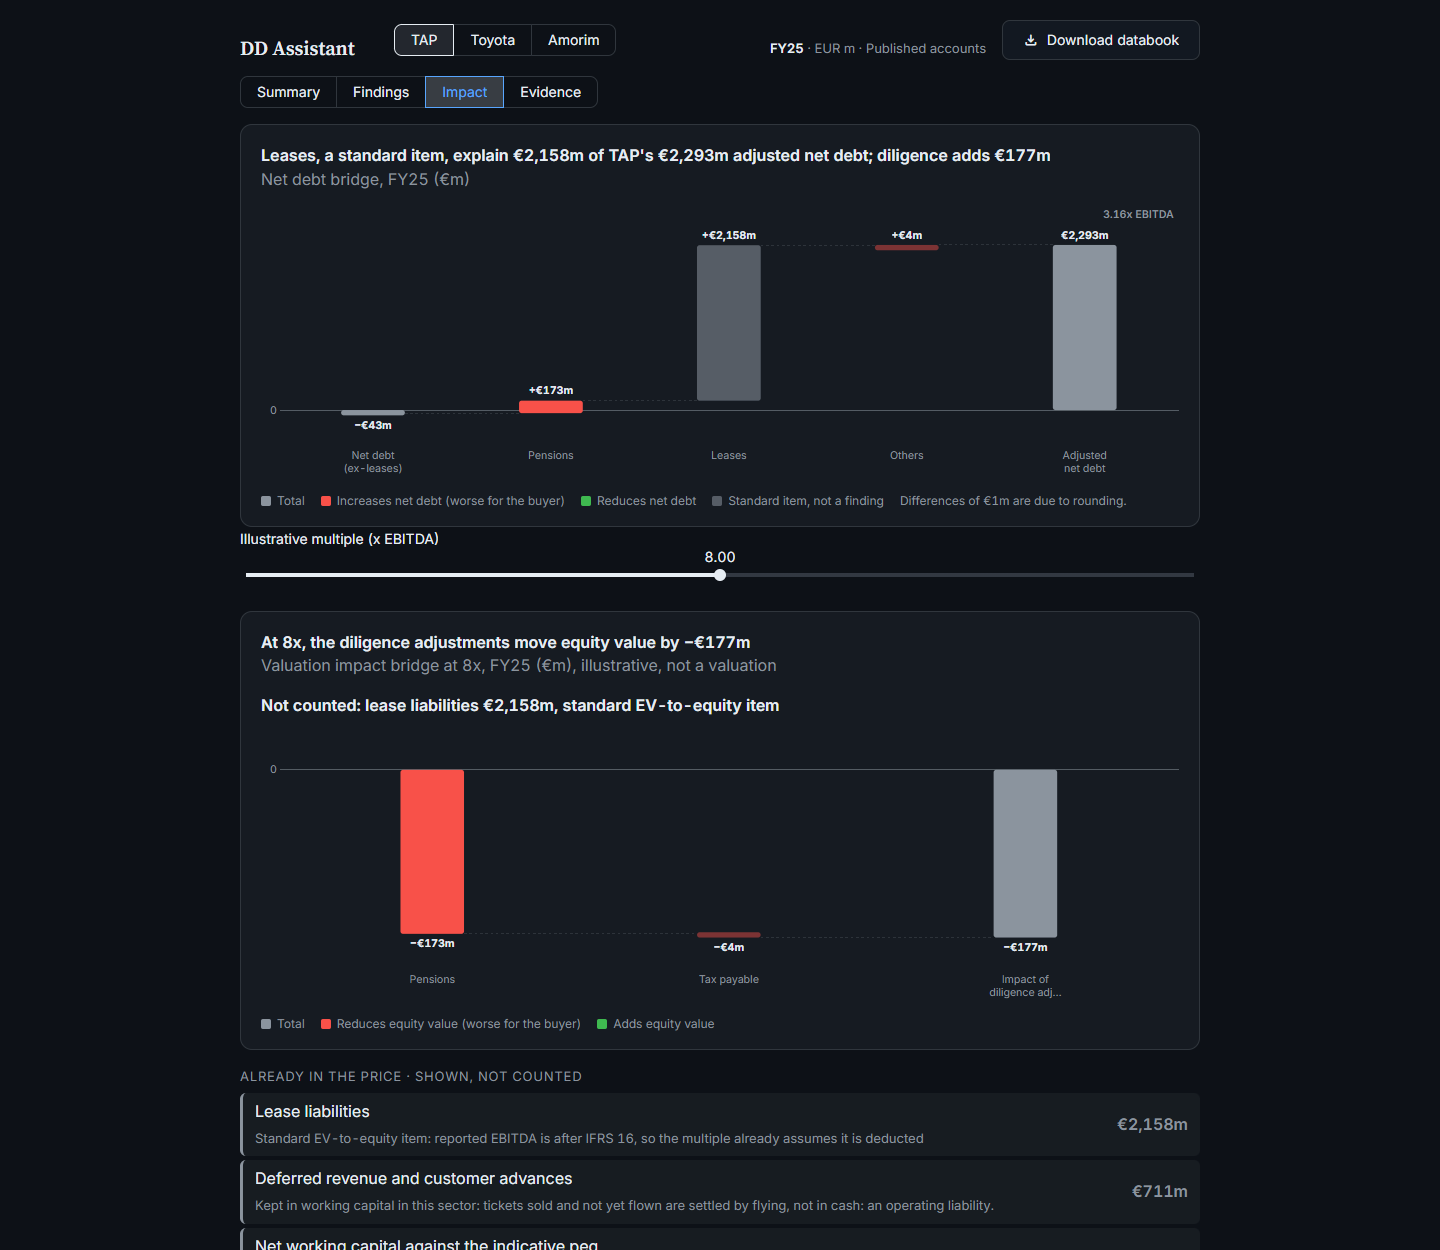
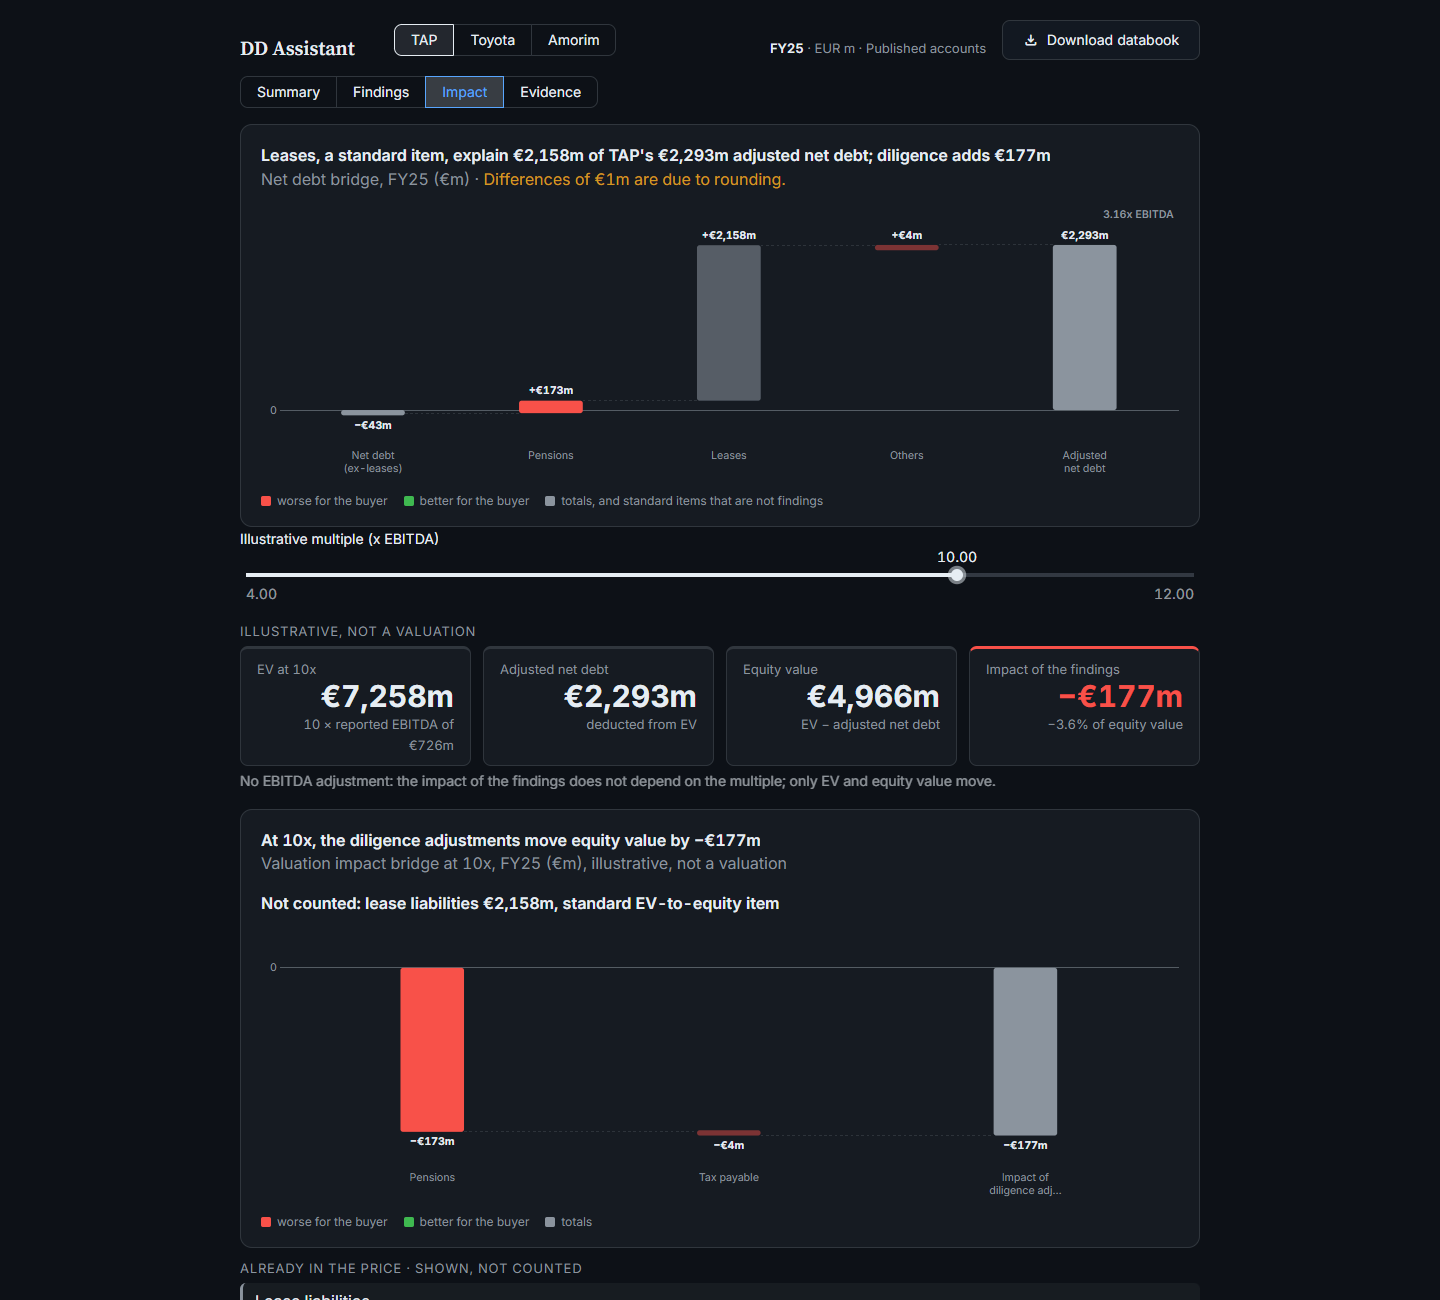
Phase 6b: captures against the criteria; README, PROGRESS and GAPS; new tool images

diff --git a/site/index.html b/site/index.html
@@ -266,7 +266,7 @@ font-family:Inter,system-ui,-apple-system,"Segoe UI",Roboto,sans-serif}
 <p class="small" style="color:#3fb950;margin:4px 0 0">Few open points</p><div class="sbar"><i style="width:9.2%;background:#3fb950ff" title="Net debt"></i><i style="width:6.7%;background:#3fb950cc" title="Cash flow"></i><i style="width:5.0%;background:#3fb95099" title="Quality of earnings"></i></div>
 <p class="kv"><span>Adjusted net debt, FY25</span><b>€83,638k</b></p>
 <p class="action">Answer these 3: 21 → 6</p>
-<p class="muted small">R24 · Capex below depreciation; R04 · Material other income within EBITDA; ND: Other financial liabilities · Other financial liabilities</p>
+<p class="muted small">R24 · Capex below depreciation; R04 · Material other income within EBITDA; Other financial liabilities</p>
 <a class="more" href="amorim.html">The case →</a>
 </article></div>
 <div class="how3">

diff --git a/tool.py b/tool.py
@@ -76,7 +76,7 @@ CSS = f"""<style>
 .close li span {{color:{charts.TEXT}}}
 .cnt {{display:flex; flex-direction:column; gap:6px}}
 .cnt span {{font-size:14px; padding:4px 10px; border-radius:6px; border:1px solid; white-space:nowrap}}
-.kpis {{display:grid; grid-template-columns:repeat(auto-fit,minmax(200px,1fr)); gap:12px; margin:0 0 10px}}
+.kpis {{display:grid; grid-template-columns:repeat(auto-fit,minmax(200px,1fr)); gap:12px; margin:0 0 4px}}
 .kpi {{background:{charts.CARD}; border:1px solid {charts.LINE}; border-top:3px solid; border-radius:8px;
   padding:10px 16px}}
 .kpi .l {{font-size:13px; color:{charts.MUTED}}}
@@ -87,9 +87,9 @@ CSS = f"""<style>
 .tag {{display:inline-block; font-size:12px; padding:1px 7px; border-radius:5px; border:1px solid {charts.LINE};
   color:{charts.MUTED}; white-space:nowrap}}
 .chip {{display:inline-block; font-size:12px; padding:1px 8px; border-radius:10px; border:1px solid; white-space:nowrap}}
-.sec {{font-size:13px; color:{charts.MUTED}; text-transform:uppercase; letter-spacing:.06em; margin:16px 0 6px}}
+.sec {{font-size:13px; color:{charts.MUTED}; text-transform:uppercase; letter-spacing:.06em; margin:10px 0 4px}}
 .row {{display:grid; grid-template-columns:76px minmax(0,1fr) 110px 240px; gap:12px; align-items:center;
-  min-height:38px; border-left:3px solid; border-radius:6px; padding:0 12px; margin:0 0 4px; font-size:15px;
+  min-height:34px; border-left:3px solid; border-radius:6px; padding:0 12px; margin:0 0 3px; font-size:15px;
   color:{charts.TEXT}}}
 .row .n {{text-align:right; white-space:nowrap; font-weight:600}}
 .row > span:first-child span[title] {{font-size:18px}}
@@ -129,6 +129,8 @@ CSS = f"""<style>
 .foot a {{color:{charts.MUTED}}}
 div[data-testid="stButton"] button p {{font-size:13px; white-space:nowrap; overflow:hidden; text-overflow:ellipsis}}
 [class*="st-key-chip"] button {{padding:4px 8px; min-height:36px}}
+.st-key-top5 {{gap:6px !important}}
+.st-key-top5 button {{min-height:32px; padding:2px 12px}}
 [class*="st-key-card-High"] details {{border-left:3px solid {charts.RED}; background:{tint(charts.RED, '0f')}}}
 [class*="st-key-card-Medium"] details {{border-left:3px solid {charts.AMBER}; background:{tint(charts.AMBER, '0f')}}}
 [class*="st-key-card-Low"] details, [class*="st-key-card-None"] details {{border-left:3px solid {charts.GREY}}}
@@ -279,9 +281,10 @@ def summary(c, a, layer) -> None:
     st.markdown(f'<div class="sec">Top deal issues · {fy(L)}, by amount at stake</div>{legend()}'
                 f'<div class="row h"><span></span><span>Issue</span><span class="n">Amount</span>'
                 f'<span>{E(dl.COLUMN)}</span></div>', unsafe_allow_html=True)
+    box = st.container(key="top5")
     for d in layer.top:
         colour = SEV_COLOUR.get(d.severity, charts.GREY)
-        left, right = st.columns([12, 1], vertical_alignment="center")
+        left, right = box.columns([12, 1], vertical_alignment="center")
         left.markdown(f'<div class="row" style="border-left-color:{colour};background:{tint(colour, "14")}">'
                       f'<span data-nocheck="1">{mark(d)}</span><span>{E(d.title)}</span>'
                       f'<span class="n" style="color:{colour if d.severity in ("High", "Medium") else charts.TEXT}">'

diff --git a/scripts/build_site.py b/scripts/build_site.py
@@ -473,7 +473,7 @@ def index(cases: list) -> str:
 <p class="small" style="color:{colour};margin:4px 0 0">{E(word)}</p>{score_bar(layer.score, colour)}
 <p class="kv"><span>Adjusted net debt, {E(fy(B))}</span><b>{E(a.money.fmt(a.view.net_debt_adjusted[B]).replace("-€", "−€"))}</b></p>
 <p class="action">{E(dl.closing_text(layer.score))}</p>
-<p class="muted small">{E("; ".join(f"{k} · {t}" for k, t, _ in layer.score.closers))}</p>
+<p class="muted small">{E("; ".join(t if k.startswith("ND: ") else f"{k} · {t}" for k, t, _ in layer.score.closers))}</p>
 <a class="more" href="{PAGES[c.slug]}">The case →</a>
 </article>""")
     limits = " · ".join(demo.LIMITS)

diff --git a/README.md b/README.md
@@ -18,9 +18,9 @@
 
 ![The tool on TAP Air Portugal: Summary](docs/images/tool-summary.png)
 
-*The tool on TAP Air Portugal, Summary: the diligence risk score in the colour of its band (40 / 100, several open points; finding intensity, not a recommendation), its split by area and every point behind it, four KPIs coloured by what they mean for a buyer, and the top five deal issues of FY25 tinted by severity. Red is worse for the buyer, green is better or checks out, amber is Medium only. Leases, unflown tickets and the working capital peg sit apart as "Already in the price".*
+*The tool on TAP Air Portugal, Summary: the Diligence Gap in the colour of its band (40 / 100, several open points; higher = more to clarify, not a recommendation), its split by area, the three answers that close most of it (40 → 17) and every point behind it, four KPIs coloured by what they mean for a buyer, and the top five deal issues of FY25 tinted by severity. Red is worse for the buyer, green is better or checks out, amber is Medium only. Leases, unflown tickets and the working capital peg sit apart as "Already in the price".*
 
-**How the score works.** Each open issue of the latest year gets points: severity (High 3, Medium 2, Low 1) × materiality (material 1, not quantifiable 0.75, below materiality 0.5) × evidence (open 1, partly explained by a note 0.75, explained 0.5). 30 points = 100, that is ten open, material High findings. A finding that fired only in an earlier year is historical: it stays in Findings with its year, out of the score and the top issues. Materiality is 5% of reported EBITDA for earnings items and 1% of revenue for balance sheet items. The score is a triage index, not a probability: issues are ranked by amount at stake, never by points.
+**How the Diligence Gap works.** Each open issue of the latest year gets points: severity (High 3, Medium 2, Low 1) × materiality (material 1, not quantifiable 0.75, below materiality 0.5) × evidence (open 1, partly explained by a note 0.75, explained 0.5). 30 points = 100, that is ten open, material High findings. A finding that fired only in an earlier year is historical: it stays in Findings with its year, out of the score and the top issues. Materiality is 5% of reported EBITDA for earnings items and 1% of revenue for balance sheet items. Next to the score, the tool names the three issues whose answer lowers it most and the score after them, by the same formula. The Impact view turns the illustrative multiple into euros: EV = multiple × reported EBITDA, equity value = EV − adjusted net debt, and the impact of the findings as a share of that equity value. The request list comes in three priorities (before signing, at most ten; during the diligence; to complete the picture), by severity, amount at stake and SPA impact, each request linked to the finding or rule that asks for it. The score is a triage index, not a probability: issues are ranked by amount at stake, never by points.
 
 It reads a company's statements (Excel, PDF, Word or an ESEF filing), checks its own reading against the published subtotals, and returns what a deal team asks for first: quality of earnings (QoE), net debt with debt-like items, net working capital (NWC), 30 red-flag rules with their sources, a two-page memo, the request list, an Excel databook with live formulas and a Red Flag Report in nine slides. European companies, euros only.
 
@@ -73,10 +73,10 @@ The website shows the conclusions (score, top three issues, one chart, coverage)
 
 | Figure | What it is | Proof |
 |---|---|---|
-| **311** | automated tests, all passing | `python -m unittest` |
+| **317** | automated tests, all passing | `python -m unittest` |
 | **30** | rules, each with its threshold, source and plain-language reason | `python -m dd_assistant --rules` |
 | **100%** | of the 123 lines read on the three companies carry their source cell, page or tag | `CompanyData.sources` |
-| **415** | memo figures checked against the material, 0 without a source | `docs/examples/*/memo_check.md` |
+| **414** | memo figures checked against the material, 0 without a source | `docs/examples/*/memo_check.md` |
 | **10 of 10** | published subtotals rebuilt from the lines read | `tests/test_real_companies.py` |
 | **48 of 49** | planted distortions detected, one at a time (1 missed: TAP, M18) | [`docs/DETECTION.md`](docs/DETECTION.md) |
 | **0** | false alarms on the clean company (Velmora) | `tests/test_clean_company.py` |

diff --git a/docs/GAPS.md b/docs/GAPS.md
@@ -26,7 +26,9 @@ Atualizado em cada incremento. "Não verificado" quer dizer que não há evidên
 | Visuais "assinatura" para o LinkedIn | A secção 4 do FASE5_DESIGN pede três imagens 1200×1200; os títulos já são gerados pelo motor e estão na ferramenta e no site, mas as imagens não foram produzidas | — | Fase 5 | Captar as três peças do site (ponte de net debt, mapa de cobertura, cartão de issue) | Claude Code | Três PNG 1200×1200 em docs/images, com teste dos títulos | Aberta |
 | App local (upload e IA) com o tema escuro | Só o modo demo foi redesenhado; os cartões brancos da app antiga ficam claros sobre o fundo escuro | — | Fase 5 | A app local funciona; é usada só neste PC | Claude Code | A app local com a mesma paleta, ou o mesmo `tool.py` sobre os ficheiros carregados | Aberta |
 | Imagens e GIF da demo antiga | `scripts/demo_screenshots.py` percorre a app antiga (visita, página inicial) e já não corre; o GIF e a social preview mostram o desenho anterior | — | Fase 5 | README usa as capturas novas (`tool-summary.png`, `tool-impact.png`) | Claude Code | Script refeito para a ferramenta; GIF e social preview novos | Aberta |
-| Memos de exemplo anteriores à Fase 6 | Os três memos guardados ainda têm a R11 (TAP, Toyota) na tabela "Key issues by amount at stake" e a R27 da Toyota como tema; passam no verificador (os números existem no material), mas não dizem que esses achados são históricos | Reescrever os memos com a skill (sem API) | Fase 6 | A app, o site, o databook e o material já mostram "historical" | Claude Code (com aprovação) | Memos reescritos, verificador a passar, sem achado histórico como key issue | Aberta |
-| Peso dos achados históricos | Um achado só de anos anteriores sai do score e do top (ex.: R27 da Toyota, D&A +65,5% em FY24, encontrada por um revisor). Pode ser cedo demais para esquecer | Decisão do Bernardo: 0 (hoje) ou um fator de 0,5 | Fase 6 | Fica em Findings com o ano e severidade Low | Bernardo | Decisão registada e teste | Aberta por decisão |
+| Memos de exemplo anteriores à Fase 6 | Os três memos guardados ainda têm a R11 (TAP, Toyota) na tabela "Key issues by amount at stake" e a R27 da Toyota como tema; passam no verificador (os números existem no material), mas não dizem que esses achados são históricos | Reescrever os memos com a skill (sem API) | Fase 6 | A app, o site, o databook e o material já mostram "historical" | Claude Code (com aprovação) | Memos reescritos, verificador a passar, sem achado histórico como key issue | Fechada a 17 de novembro de 2026: tabela de key issues gerada pelo motor (FY25), históricos e itens já no preço numa linha cada; verificador sem avisos |
+| Peso dos achados históricos | Um achado só de anos anteriores sai do score e do top (ex.: R27 da Toyota, D&A +65,5% em FY24, encontrada por um revisor). Pode ser cedo demais para esquecer | Decisão do Bernardo: 0 (hoje) ou um fator de 0,5 | Fase 6 | Fica em Findings com o ano e severidade Low | Bernardo | Decisão registada e teste | Fechada por decisão do Bernardo (17 de novembro de 2026): contam zero e aparecem com o ano |
 | Materialidade sobre o EV | O FASE6_DESIGN propõe 1% do EV quando houver preço; hoje só há 5% do EBITDA e 1% das vendas | Um EV introduzido pelo utilizador | Fase 6 | Limiares atuais, editáveis | Claude Code | EV no Price → materialidade do EV, com teste | Aberta |
 | Faixas do score (25 e 60) | As palavras "few / several / many open points" usam limites escolhidos por nós, sem fonte externa (não existe uma pública para este índice) | — | Fase 6 | Score sempre decomposto ponto a ponto | Bernardo | Limites revistos por alguém de TS | Aberta: escolha documentada no FASE6_DESIGN |
+| Prioridade dos pedidos sem tema próprio | Os pedidos da checklist de documentos (R18) e os números em falta ficam no tema "Documents", um sexto grupo além dos cinco temas pedidos | — | Fase 6b | — | Bernardo | Decidir se a checklist se reparte pelos cinco temas | Aberta |
+| Rótulo das capturas do Playwright | O `demo_review.py` mede as três empresas com os mesmos números de altura; o layout é igual, mas a captura não confirma a empresa pelo texto | — | Fase 6b | As capturas (vistas à mão) mostram a empresa certa | Claude Code | Verificar o nome da empresa em cada captura | Aberta |

diff --git a/docs/PROGRESS.md b/docs/PROGRESS.md
@@ -259,3 +259,18 @@ A secção 6b referida na mensagem do Bernardo não estava no ficheiro; as 10 li
 **Desvios ao desenho:** o Impact ficou empilhado (não em duas colunas) para as pontes ocuparem a largura; os títulos dos gráficos não foram encurtados a 70 caracteres (são gerados pelo motor e verificados no memo).
 
 **Próximo passo exato:** aprovação do Bernardo para o push. Depois: reescrever os três memos de exemplo sem os achados históricos como key issues (GAPS).
+
+## Fase 6b (17 de novembro de 2026, pedidos do Bernardo)
+
+**Feito** (commits locais, sem push)
+1. **Verificação em tom neutro** no site (cartões cinzentos, números brancos) e na app (Reading checks, "rules run", grelha de cobertura). O verde fica para o que é bom para o comprador.
+2. **"Finding intensity" passa a "Diligence Gap"** (0 = nada em aberto, 100 = muito em aberto; "Higher = more to clarify"). "Not a recommendation" aparece uma vez, junto ao score principal, com tooltip; saiu dos cartões do site. Também no databook, no material e no `deal_layer.md`.
+3. **O que fecha o gap:** as 3 questões com mais pontos e o score sem elas, pela mesma fórmula (TAP 40 → 17; Toyota 35 → 13; Amorim 21 → 6). Teste `ClosingTheGapTest`.
+4. **Múltiplo:** EV = múltiplo × EBITDA reportado, equity value = EV − adjusted net debt, impacto dos achados em € e em % do equity value; "Illustrative, not a valuation"; sem ajustes ao EBITDA, uma linha diz que o impacto não depende do múltiplo. TAP: 6x EV €4,355m, equity €2,062m, −8.6%; 10x EV €7,258m, equity €4,966m, −3.6%. Valores de 6x, 8x e 10x no material. Teste `EquityViewTest`.
+5. **Evidence:** os chips quebram linha dentro dos cartões (0 fora, a 1440 e 375 px, medido pelo `demo_review.py`).
+6. **Request list por prioridade** (`deal_layer.prioritised_requests`, regra em `PRIORITY_DETAIL`): P1 "Before signing" (High atual, top deal issue ou item material que mexe no preço/SPA; máx. 10, por montante), P2 "During the diligence" (Medium, itens por classificar, regras bloqueadas que afetam o valor), P3 "To complete the picture" (o resto). Por tema; cada pedido com a ligação. App ("Start with these N" + P2/P3 em secções), site, databook (Issues & Requests), export e material. P1: TAP 7, Toyota 7, Amorim 5 (Duriva 10, com o limite). Teste `PrioritisedRequestsTest`.
+7. **Pontas soltas:** históricos contam zero (já estava); os três memos com a tabela de key issues de FY25 gerada pelo motor, verificador sem avisos (143, 133, 138 números); site sem título de gráfico repetido nos cartões, meta description própria, legenda antiga trocada por uma linha sobre a cor; nota de arredondamento por baixo do título do gráfico (TAP 2,292 vs 2,293); cash conversion com a definição ("operating cash flow ÷ EBITDA"); README com o link da demo uma vez no texto; o workflow das Pages publica a cada push a main (sem filtro de caminhos; Pages ativo, `build_type: workflow`, último deploy com sucesso).
+
+**Capturas e critérios** (`scripts/demo_review.py`, 1440 e 375 px): topo legível; Summary sem scroll (top 5 acaba aos 832 px); telemóvel sem scroll horizontal, score aos 257 px; múltiplo 6x vs 10x muda EV e equity; chips do Evidence dentro dos cartões; pontes ≥ 96% do cartão; página da TAP 2609 px (< 3 ecrãs). **317 testes OK.**
+
+**Próximo passo exato:** aprovação do Bernardo para o push.
